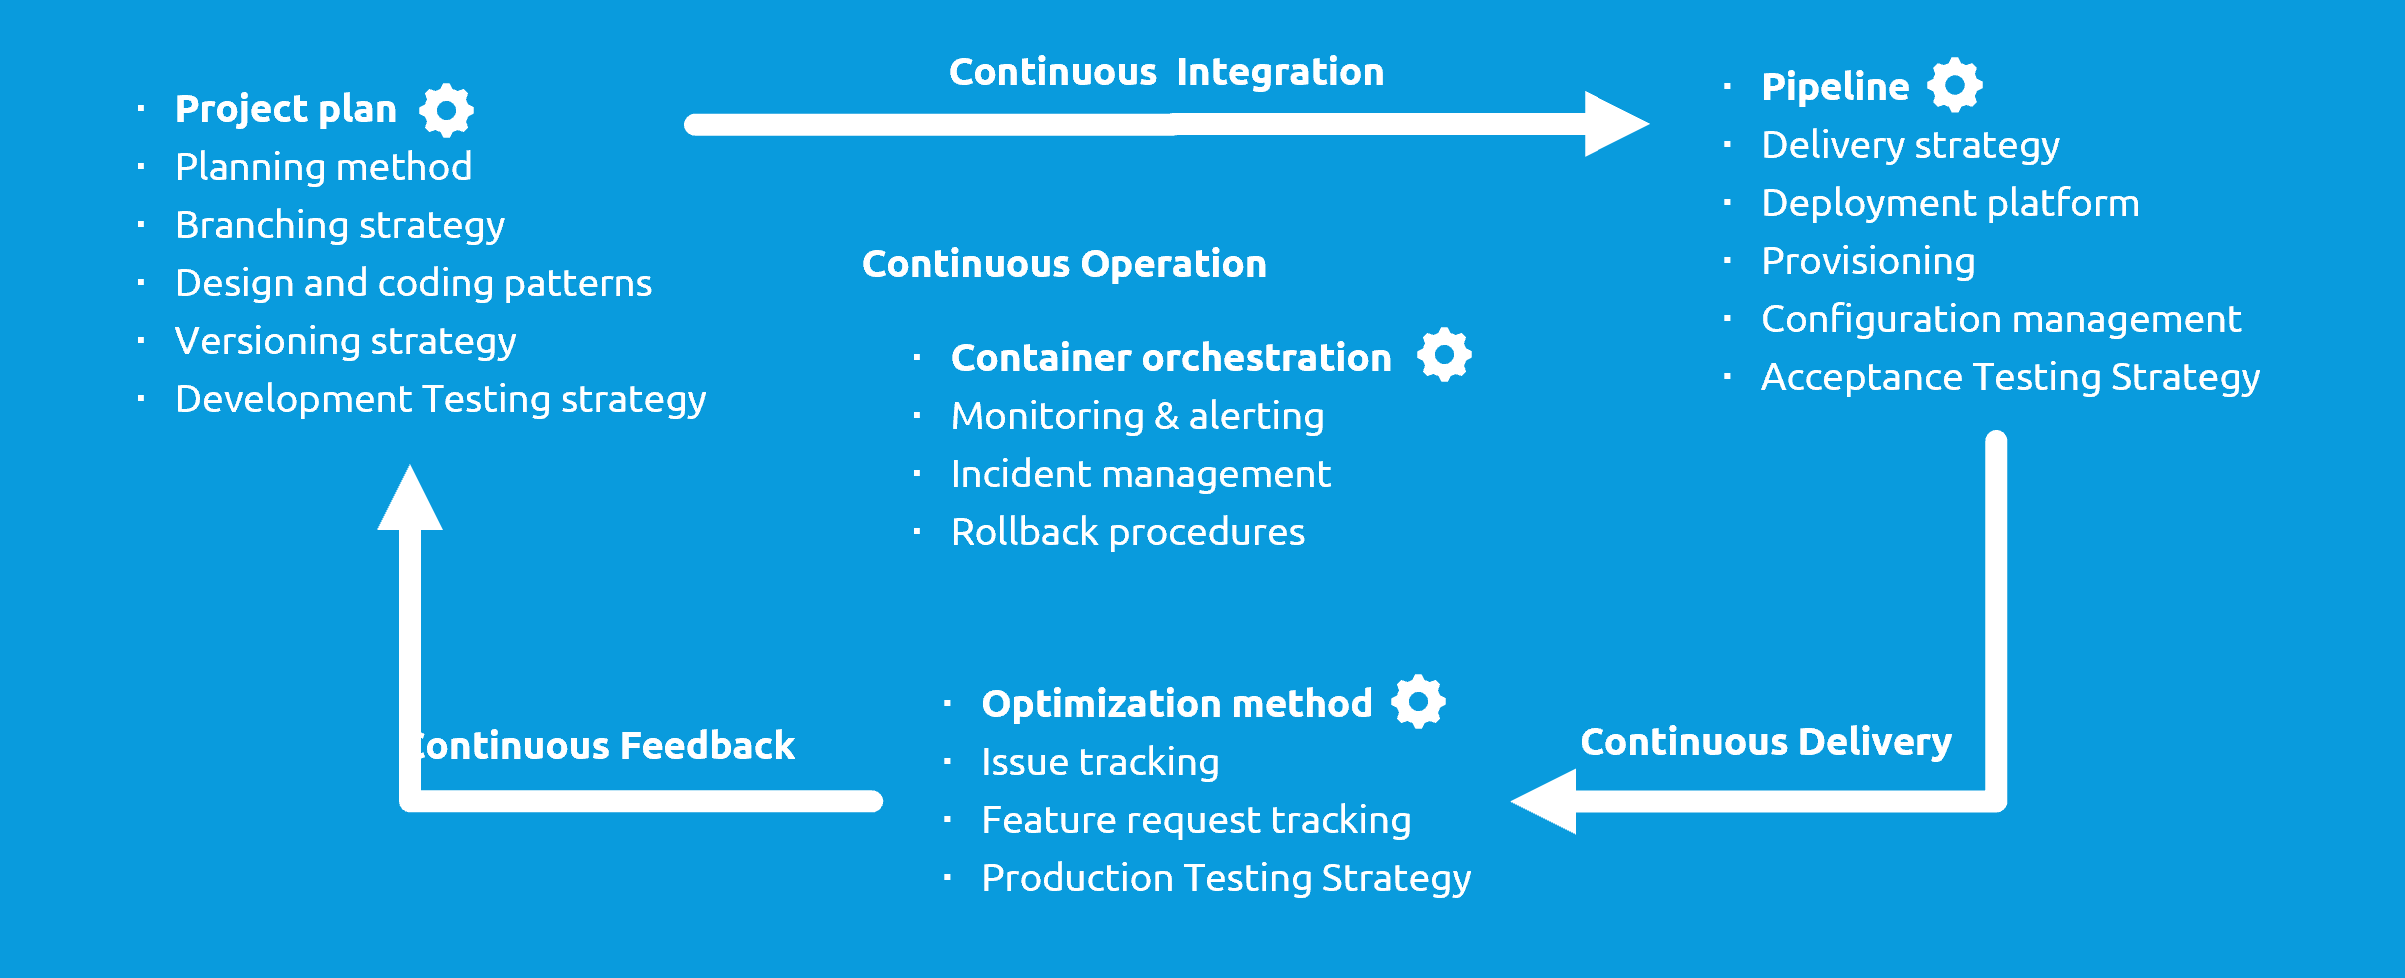
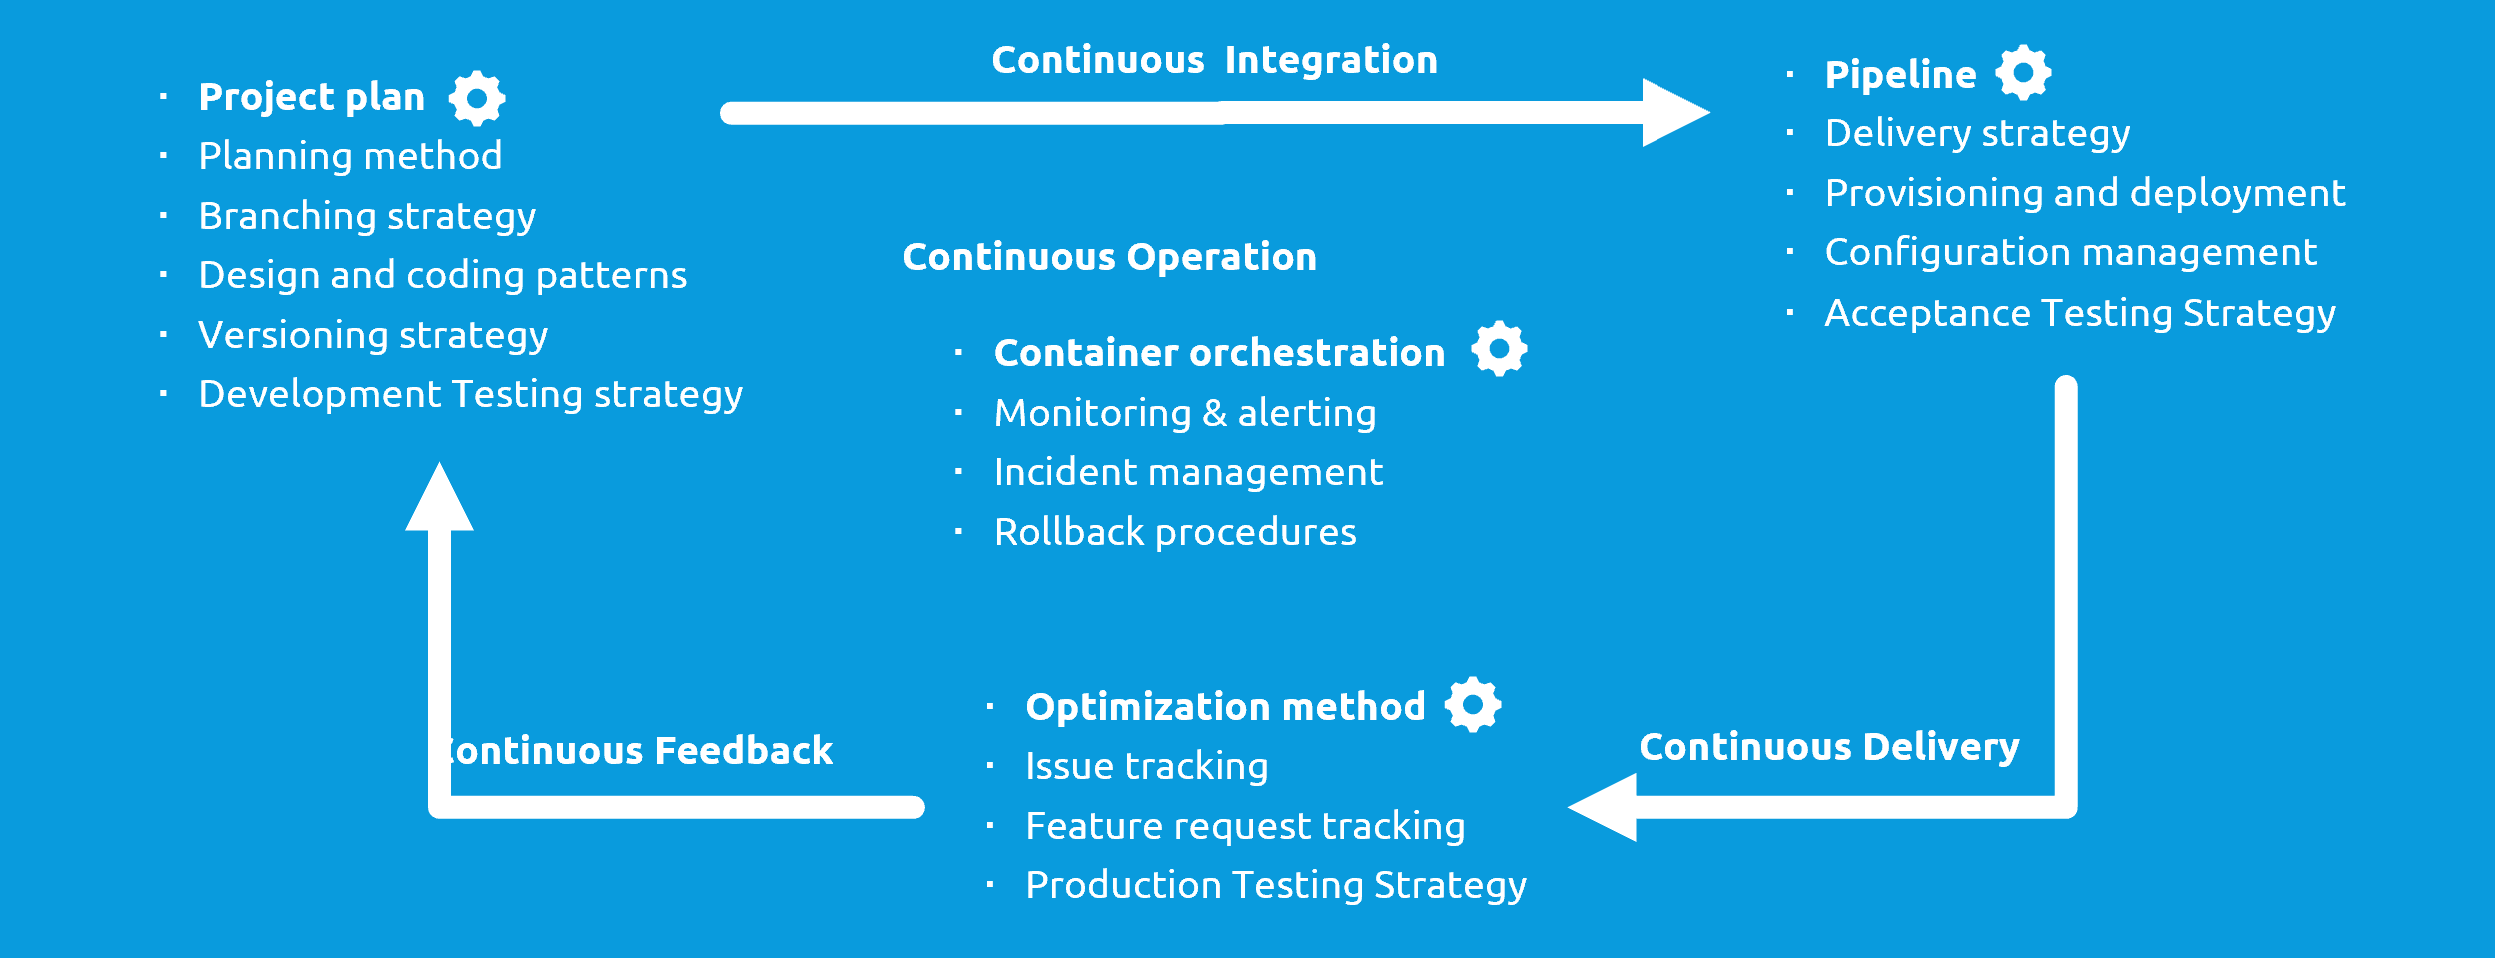
Changes

diff --git a/content/configuration-management.md b/content/configuration-management.md
@@ -16,12 +16,17 @@ Clone this repo and document your specific choice here:
 
 ## IaC
 
+Infrastructure-as-Code (IaC)
+
 ## GitOps
 
 GitOps is a way to do Kubernetes cluster management and application delivery.
 GitOps works by using Git as a single source of truth for declarative infrastructure and applications.
+It applies CI/CD (Continuous Integration/ Continuous Delivery) principles to configuration management.
 
 - The entire system described declaratively
 - The canonical desired system state versioned in Git
 - Approved changes that can be automatically applied to the system
-- Configuration agents to ensure correctness and alert on divergence
+- Configuration agents ensure correctness and alert on divergence
+
+See: https://www.redhat.com/architect/gitops-implementation-patterns 

diff --git a/content/provisioning-deployment.md b/content/provisioning-deployment.md
@@ -1,0 +1,30 @@
+# Provisioning and deployment
+
+```
+Clone this repo and document your specific choice here:
+
+
+
+```
+> Content
+> - [Best practices](#best-practices)
+> - [LAMP](#LAMP)
+> - [Docker](#docker)
+> - [Kubernetes](#kubernetes)
+> - [Cloud-native](#cloud-native)
+
+
+## Best practices
+
+
+## LAMP
+
+
+## Docker
+
+
+## Kubernetes
+
+
+## Cloud-native
+

diff --git a/README.md b/README.md
@@ -47,6 +47,8 @@ There are four main processes in DevOps:
 
 - [ ] [Configuration management](content/configuration-management.md)
 
+- [ ] [Provisioning and Deployment](content/provisioning-deployment.md)
+
 - [ ] [Ops Strategy](content/operations-setup.md)
 
 - [ ] [Monitoring Strategy](content/monitoring-strategy.md)
